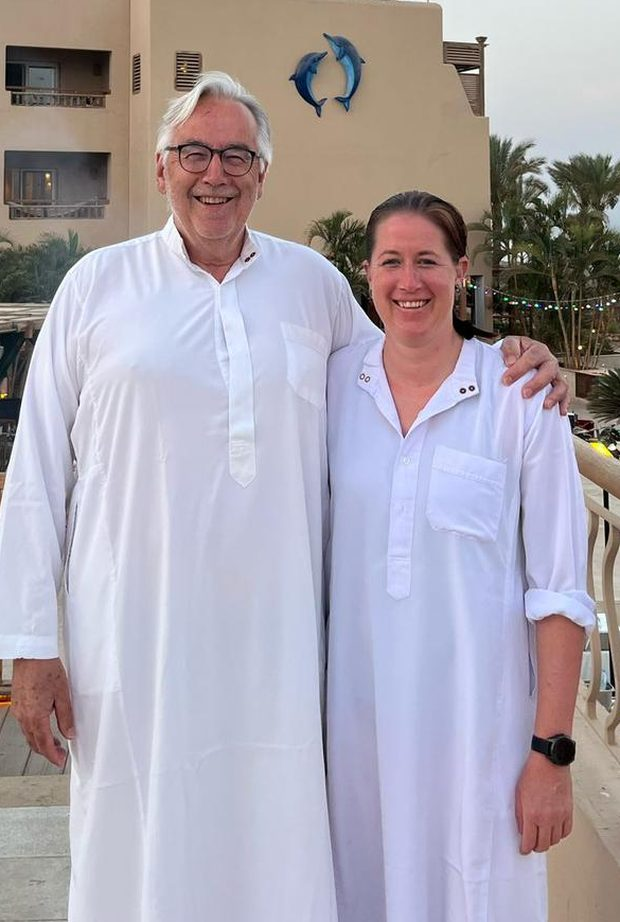
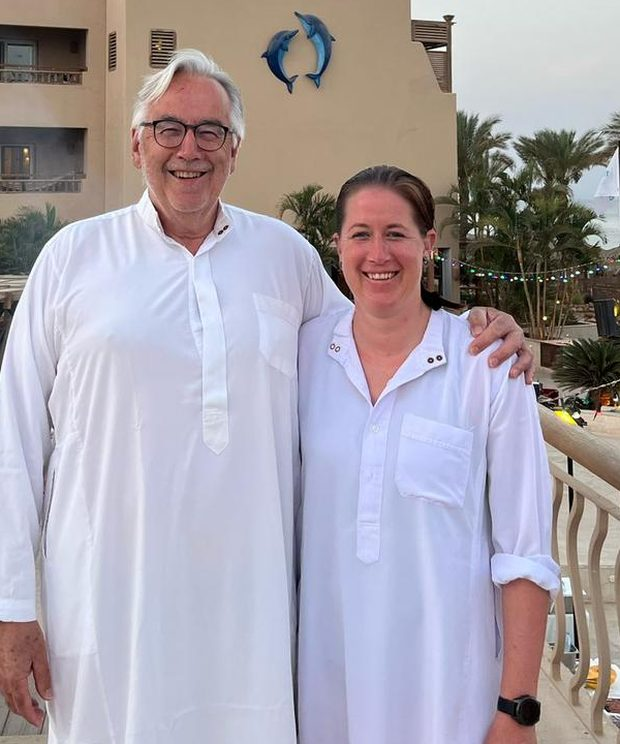
Mobile-Anmeldeformular flacher & breiter (keine Box-in-Box); Ägypten-Bild 5/6 mit Kopffreiheit

diff --git a/index.html b/index.html
@@ -96,19 +96,20 @@
   .row2{display:grid;grid-template-columns:1fr 1fr;gap:12px}
   .hint{font-size:.76rem;color:var(--muted);margin-top:6px}
 
-  .person{border:1px solid var(--line);border-radius:16px;padding:18px 16px;margin-bottom:14px;background:var(--cream)}
+  .person{padding:20px 0 0;margin-top:20px;border-top:1px solid var(--line)}
+  .person:first-child{padding-top:0;margin-top:0;border-top:0}
   .person-head{display:flex;align-items:center;justify-content:space-between;margin-bottom:14px}
   .person-head .pn{font-family:'Cormorant Garamond',serif;font-size:1.3rem;color:var(--forest)}
   .btn-remove{background:none;border:0;color:var(--muted);font-size:.8rem;cursor:pointer;text-decoration:underline;padding:4px}
   .checks{display:grid;gap:8px;margin-top:4px}
-  .chk{display:flex;align-items:center;gap:10px;padding:10px 12px;border:1px solid var(--line);border-radius:10px;
-    background:var(--white);cursor:pointer;font-size:.9rem;font-weight:500;transition:border-color .15s,background .15s}
+  .chk{display:flex;align-items:center;gap:10px;padding:11px 12px;border:1px solid var(--line);border-radius:10px;
+    background:var(--cream);cursor:pointer;font-size:.9rem;font-weight:500;transition:border-color .15s,background .15s}
   .chk:hover{border-color:var(--gold-soft)}
   .chk input{width:18px;height:18px;accent-color:var(--forest);flex:0 0 auto;margin:0}
   .chk .meta{margin-left:auto;font-size:.76rem;color:var(--muted);font-weight:400}
   .sub-label{font-size:.74rem;letter-spacing:.06em;text-transform:uppercase;color:var(--gold);font-weight:600;margin:14px 0 6px}
 
-  .btn-add{width:100%;padding:13px;border:1.5px dashed var(--gold-soft);background:transparent;color:var(--gold);
+  .btn-add{width:100%;margin-top:18px;padding:13px;border:1.5px dashed var(--gold-soft);background:transparent;color:var(--gold);
     border-radius:12px;font-family:inherit;font-weight:600;font-size:.9rem;cursor:pointer;transition:background .15s}
   .btn-add:hover{background:rgba(201,165,103,.08)}
 
@@ -208,6 +209,10 @@
 
   @media(max-width:480px){
     .row2{grid-template-columns:1fr}
+    #anmeldung .wrap{padding:0 12px}
+    .form-card{padding:18px 14px}
+    .chk{padding:11px 10px;gap:9px}
+    .chk .meta{margin-left:8px}
   }
 </style>
 </head>